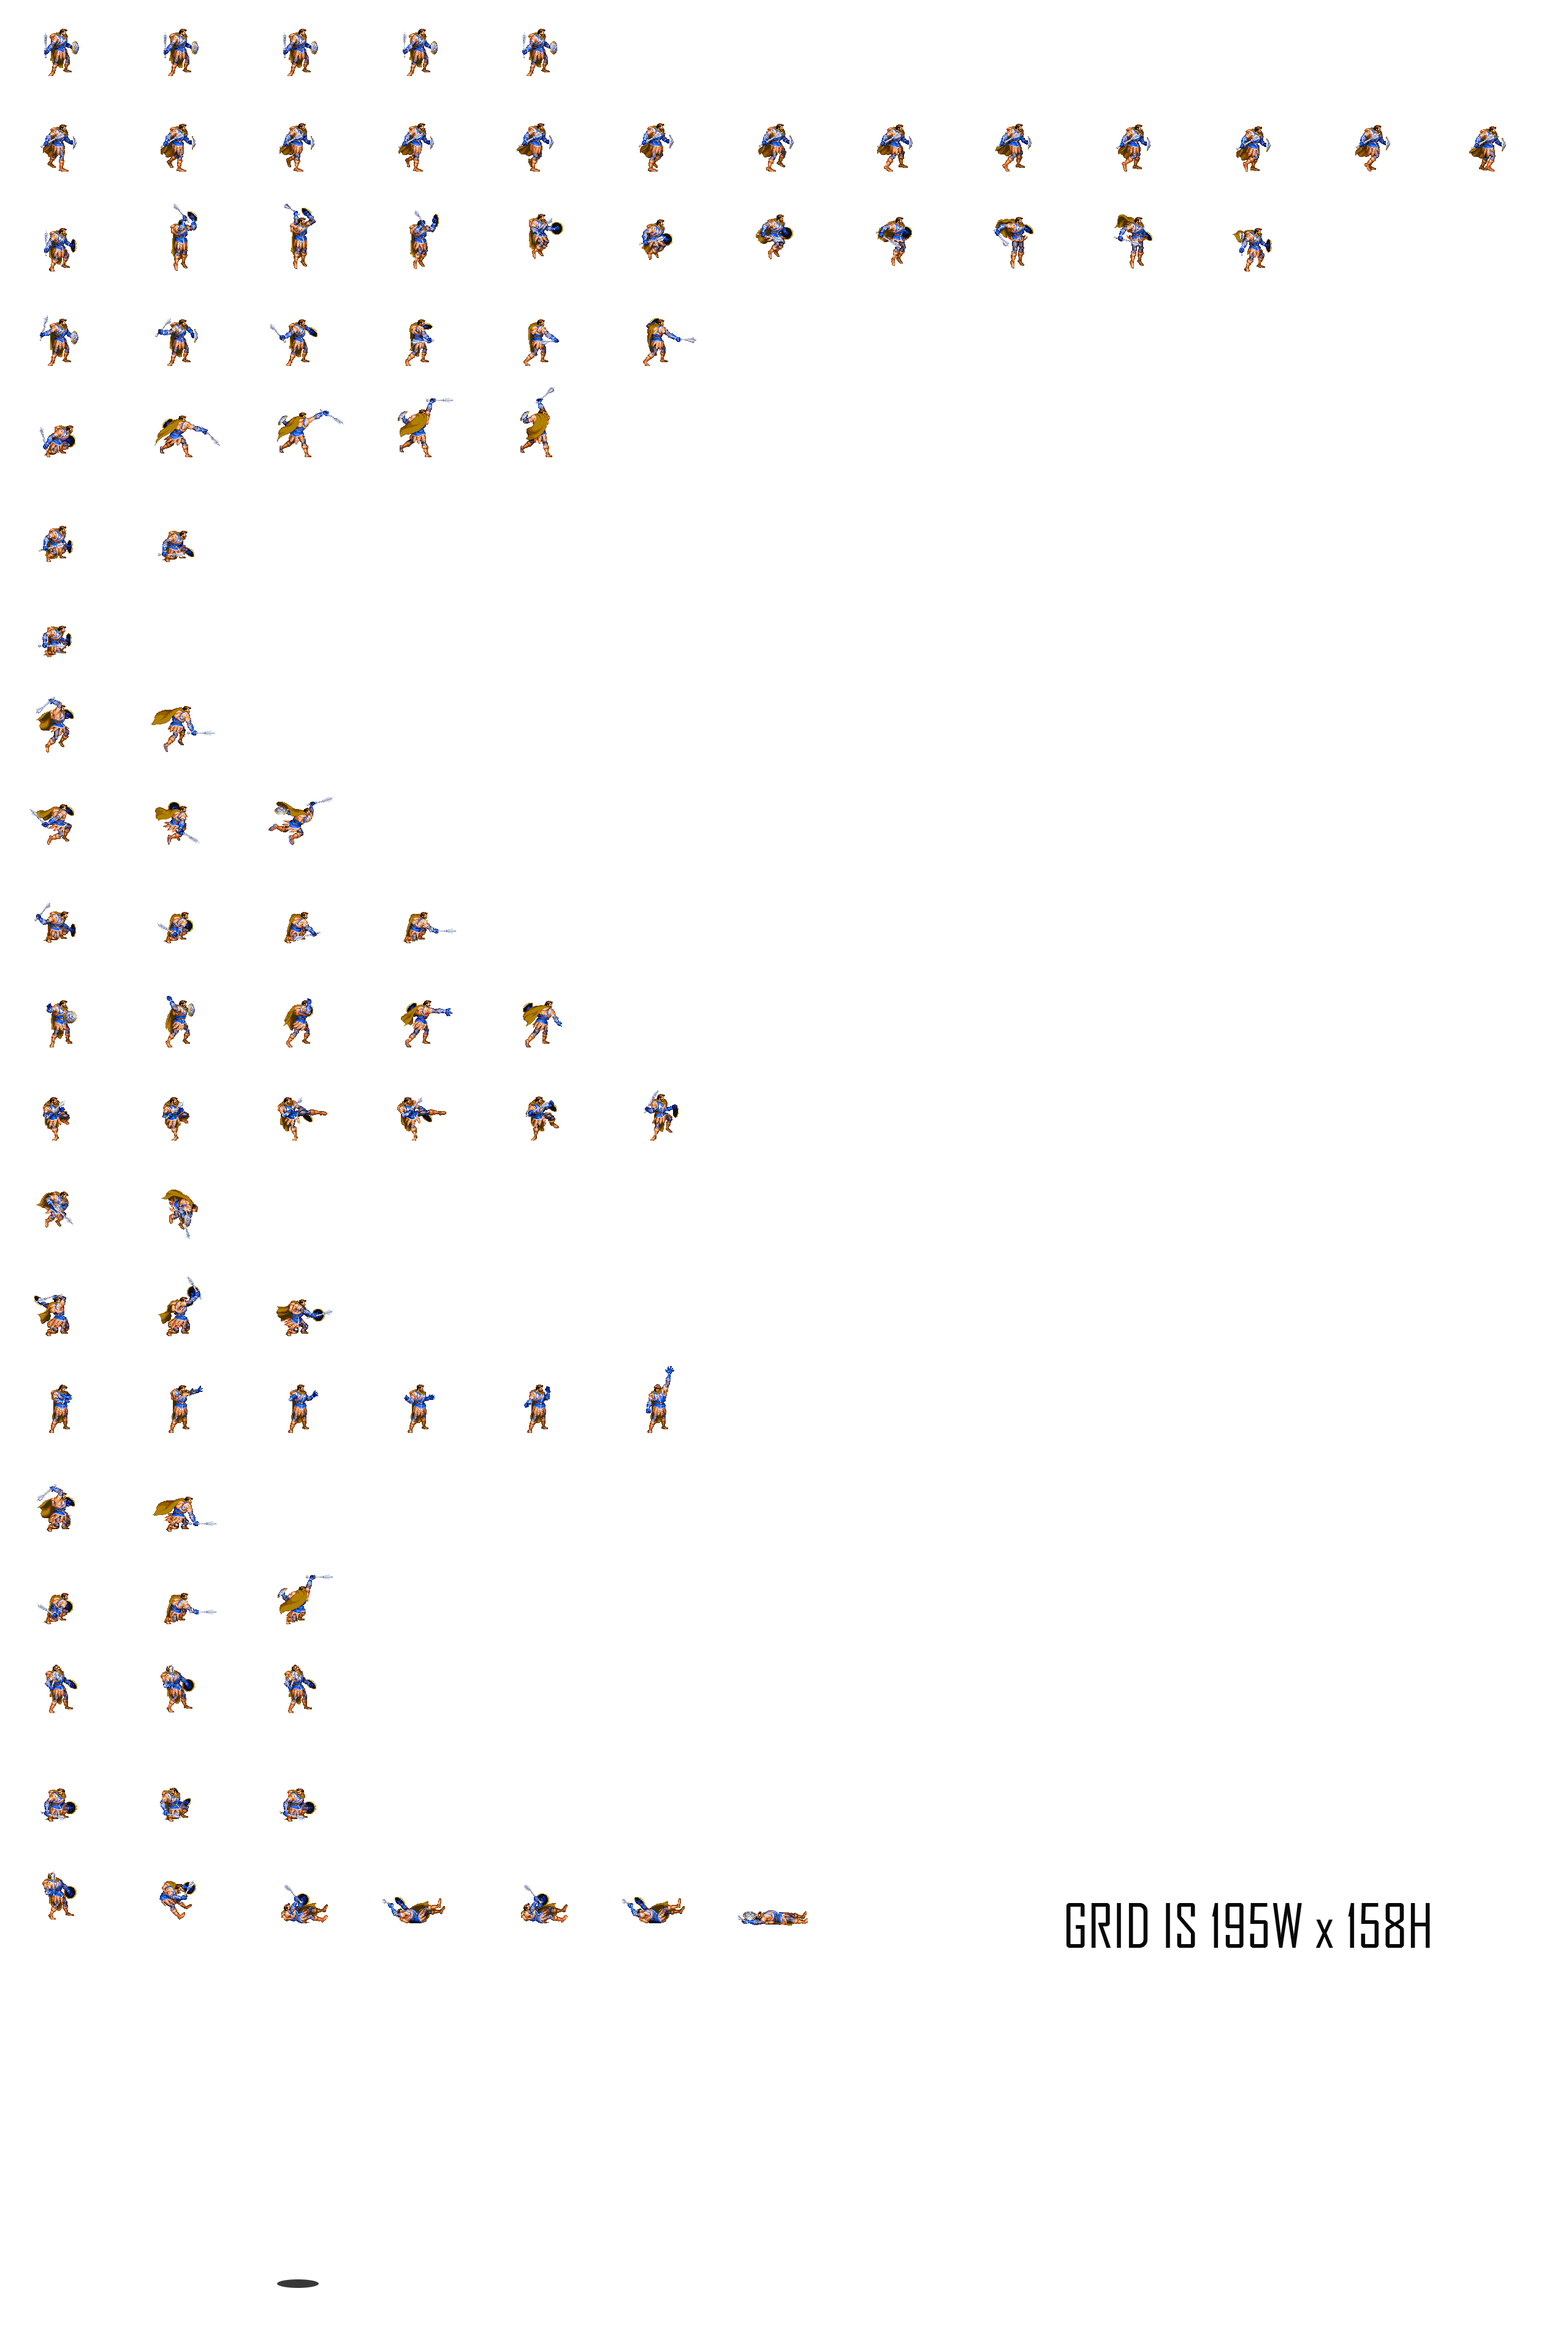
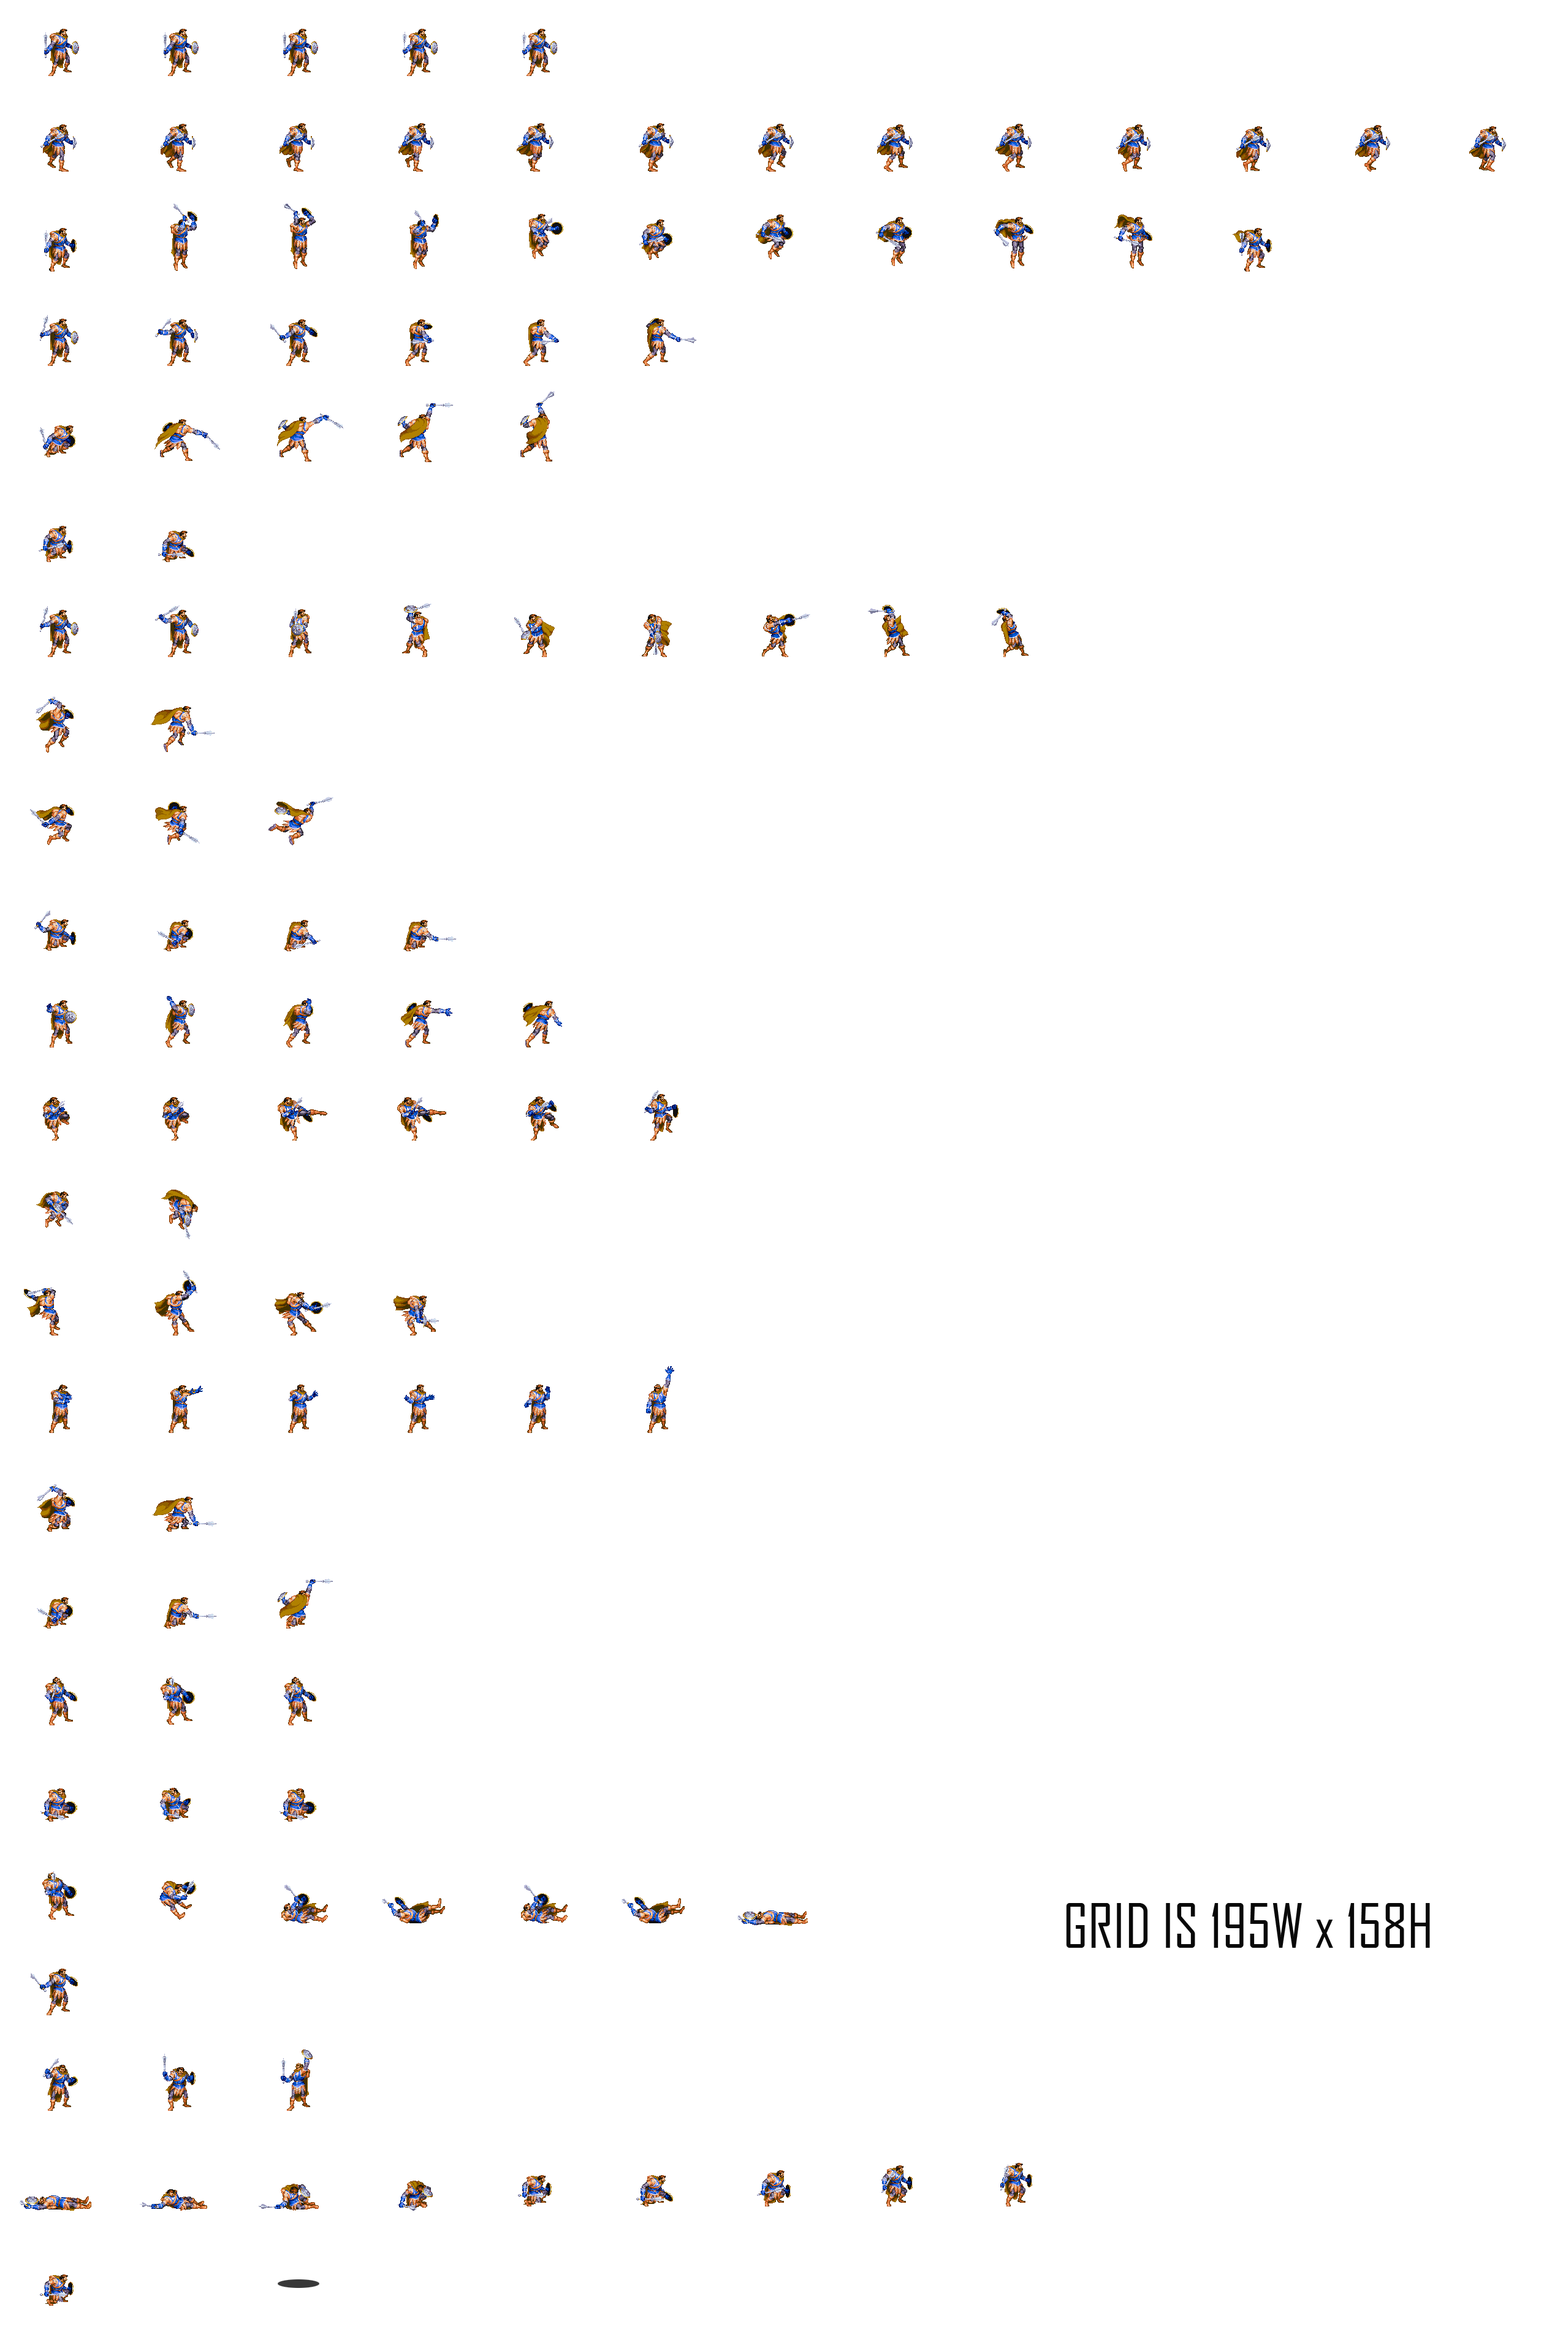
Paladin adjustments

diff --git a/src/Paladin.cpp b/src/Paladin.cpp
@@ -130,24 +130,25 @@ Paladin::Paladin(character_deff character, int x_pos, bool _fliped, int skin): C
 	standing_hit.loop = true; 
 	standing_hit.speed = 0.2;
 
-	standing_block.PushBack({ 195 * 2, 158 * 3, 195, 158 });
+	standing_block.PushBack({ 195 * 2, 158 * 20, 195, 158 });
 
 	standing_block.loop = false;
 	standing_block.speed = 0.2;
 
-	crouching_block.PushBack({ 0, 158 * 6, 195, 158 });
+	crouching_block.PushBack({ 0, 158 * 23, 195, 158 });
 
 	crouching_block.loop = false;
 	crouching_block.speed = 0.2;
 
-	knockdown.PushBack({ 0      , 158 * 21, 195, 158 });
-	knockdown.PushBack({ 0      , 158 * 21, 195, 158 });
-	knockdown.PushBack({ 0      , 158 * 21, 195, 158 });
-	knockdown.PushBack({ 0      , 158 * 21, 195, 158 });
-	knockdown.PushBack({ 0      , 158 * 21, 195, 158 }); // It works for me
-	knockdown.PushBack({ 195    , 158 * 21, 195, 158 });
-	knockdown.PushBack({ 195 * 2, 158 * 21, 195, 158 });
-	knockdown.PushBack({ 195 * 3, 158 * 21, 195, 158 });
+	knockdown.PushBack({ 0      , 158 * 22, 195, 158 }); // It works for me
+	knockdown.PushBack({ 195    , 158 * 22, 195, 158 });
+	knockdown.PushBack({ 195 * 2, 158 * 22, 195, 158 });
+	knockdown.PushBack({ 195 * 3, 158 * 22, 195, 158 });
+	knockdown.PushBack({ 195 * 4     , 158 * 22, 195, 158 });
+	knockdown.PushBack({ 195 * 5     , 158 * 22, 195, 158 });
+	knockdown.PushBack({ 195 * 6      , 158 * 22, 195, 158 });
+	knockdown.PushBack({ 195 * 7      , 158 * 22, 195, 158 });
+
 
 	knockdown.loop = false;
 	knockdown.speed = 0.1;
@@ -157,7 +158,12 @@ Paladin::Paladin(character_deff character, int x_pos, bool _fliped, int skin): C
 	dead.loop = true;
 	dead.speed = 0.1;
 
-	crouching_special2.PushBack({ 195 * 3, 158 * 10, 195, 158 });
+	crouching_special2.PushBack({ 195 * 1, 158 * 13, 195, 158 });
+	crouching_special2.PushBack({ 195 * 2, 158 * 13, 195, 158 });
+	crouching_special2.PushBack({ 195 * 3, 158 * 13, 195, 158 });
+
+	crouching_special2.loop = false;
+	crouching_special2.speed = 0.25;
 
 	crouching_special1.PushBack({ 195 * 0, 158 * 15, 195, 158 });
 	crouching_special1.PushBack({ 195 * 1, 158 * 15, 195, 158 }, ACTIVE);
@@ -203,11 +209,28 @@ Paladin::Paladin(character_deff character, int x_pos, bool _fliped, int skin): C
 	super_anim.loop = false;
 	super_anim.speed = character.super.animation_speed;
 
+	taunt.PushBack({ 0			, 158 * 21, 195, 158 });
+	taunt.PushBack({ 195		, 158 * 21, 195, 158 });
+	taunt.PushBack({ 195 * 2	, 158 * 21, 195, 158 });
+
+	taunt.loop = false;
+	taunt.speed = 0.2;
+
+	parry_reaction.PushBack({ 0			, 158 * 6, 195, 158 });
+	parry_reaction.PushBack({ 195		, 158 * 6, 195, 158 }, ACTIVE);
+	parry_reaction.PushBack({ 195 * 2	, 158 * 6, 195, 158 });
+	parry_reaction.PushBack({ 195 * 3	, 158 * 6, 195, 158 });
+	parry_reaction.PushBack({ 195 * 4	, 158 * 6, 195, 158 });
+	parry_reaction.PushBack({ 195 * 5	, 158 * 6, 195, 158 });
+	parry_reaction.PushBack({ 195 * 7	, 158 * 6, 195, 158 });
+	parry_reaction.PushBack({ 195 * 8	, 158 * 6, 195, 158 });
+
+	parry_reaction.speed = character.cr_s2.animation_speed;
 
 	//PALADIN EXCLUSIVE BARS
 	// XML inicialization
-	parry_reaction = light_attack;
-	parry_reaction.speed = character.cr_s2.animation_speed;
+	//parry_reaction = light_attack;
+	//parry_reaction.speed = character.cr_s2.animation_speed;
 	parry_duration = character.parry_duration;
 	miss_parry_recovery = character.miss_parry_recovery;
 	parry_healing = character.parry_healing;
